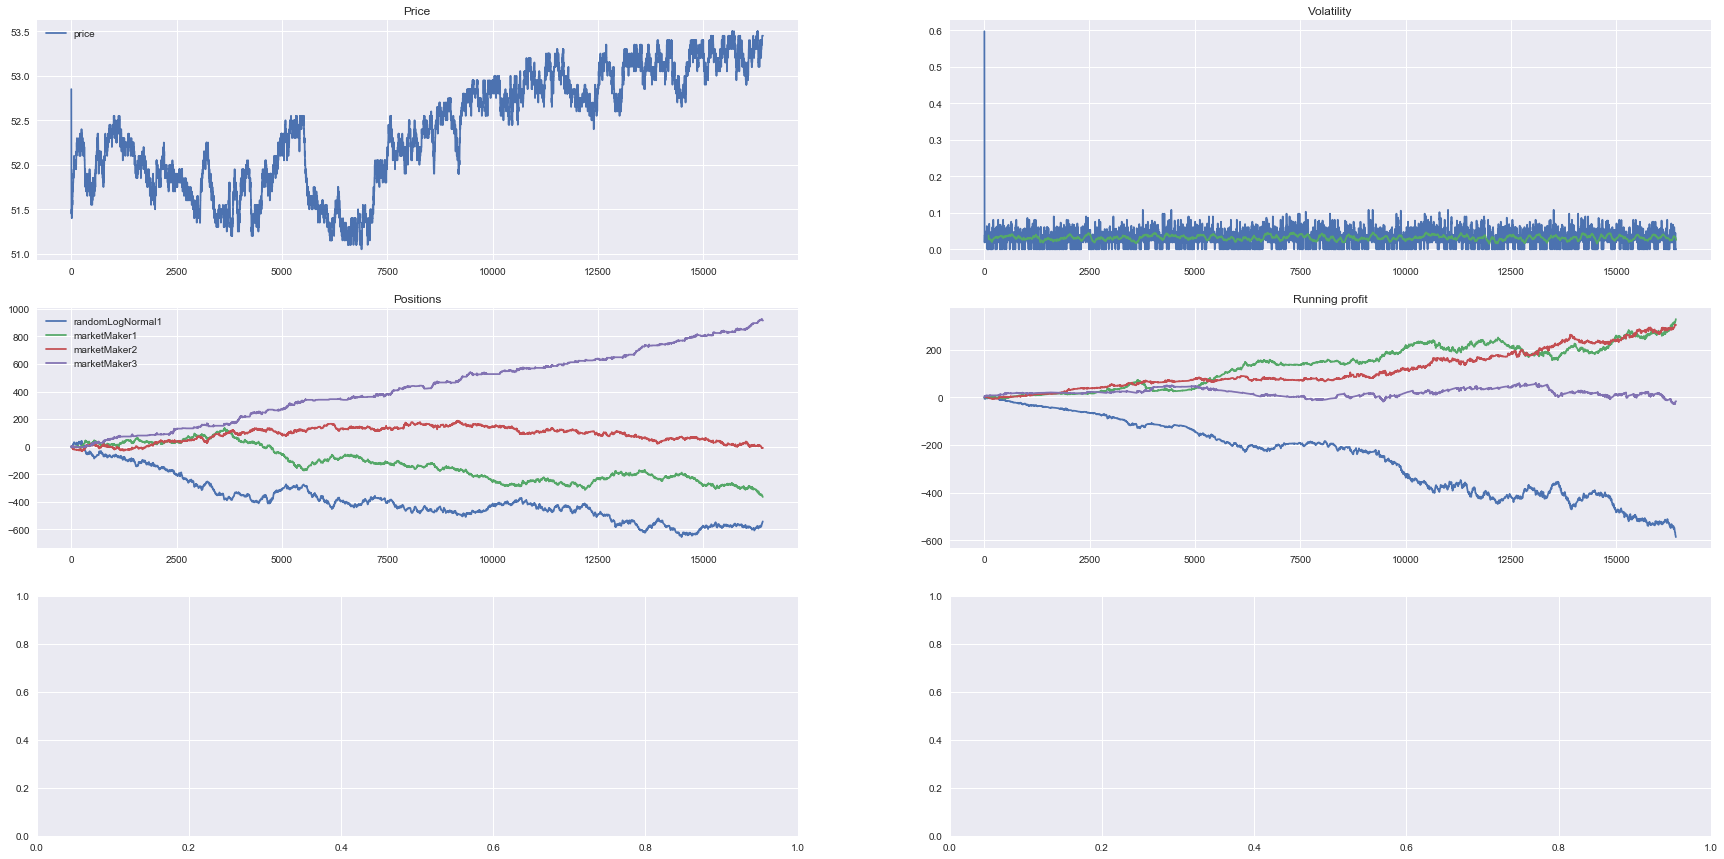
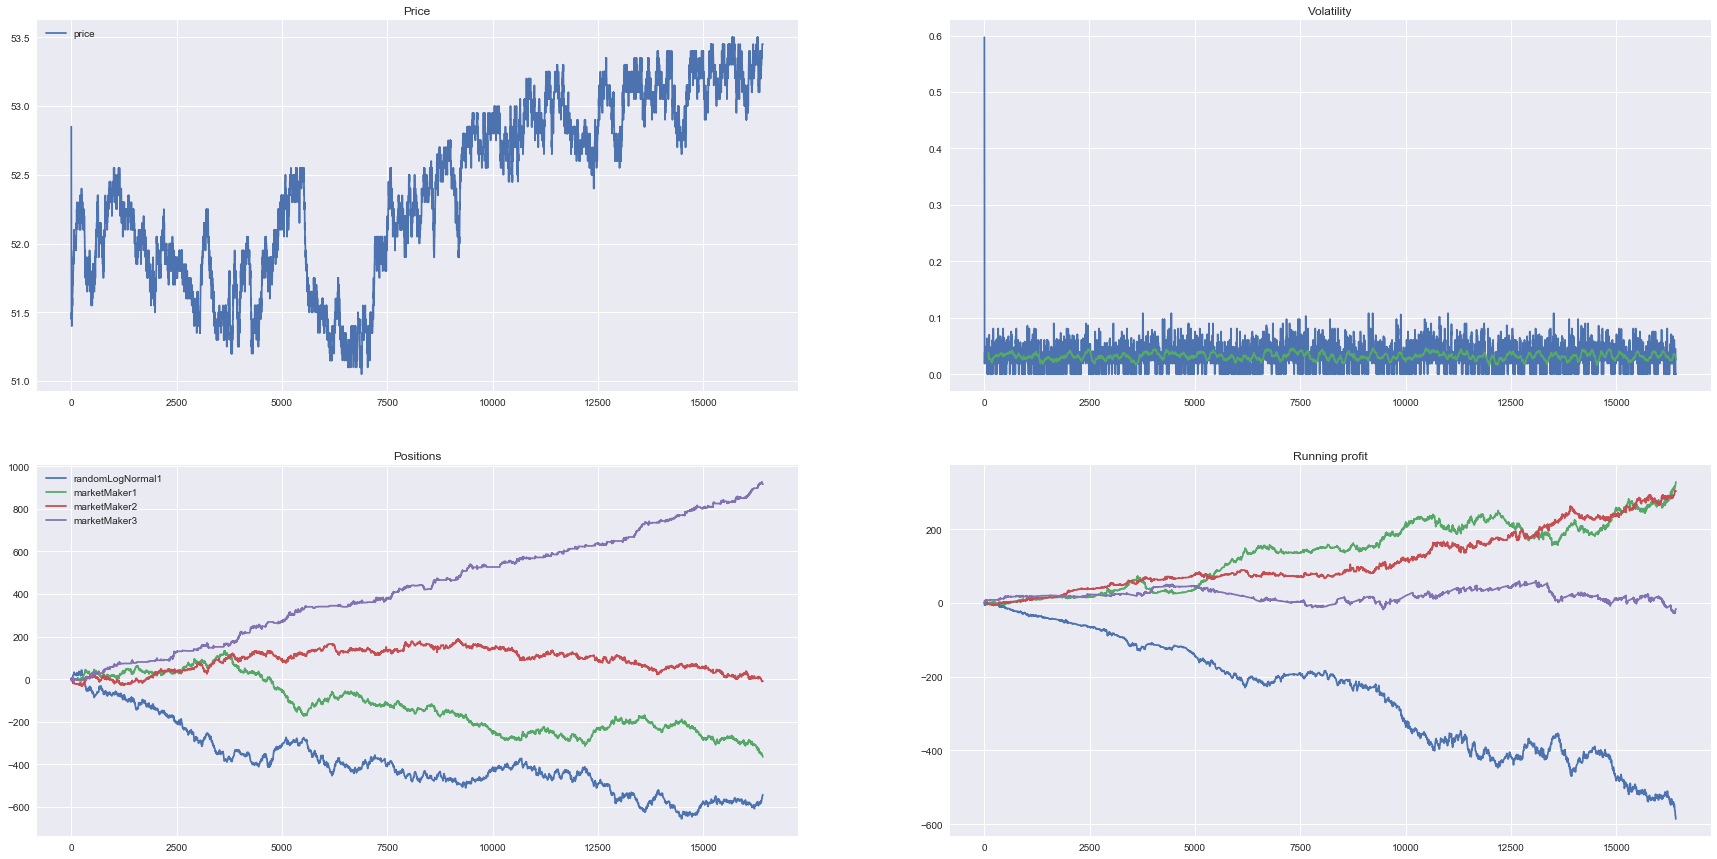
Changed pictures

diff --git a/orderGenerator_module.py b/orderGenerator_module.py
@@ -591,7 +591,7 @@ class market():
         dfVolatility = df[["volatility", "volatilityTrend"]]
         
         # PLOT PRICE
-        fig, axs = plt.subplots(3, 2)
+        fig, axs = plt.subplots(2, 2)
         axs[0, 0].plot(dfPrice, label = "price")
         axs[0, 0].set_title("Price")
         axs[0, 0].legend()
